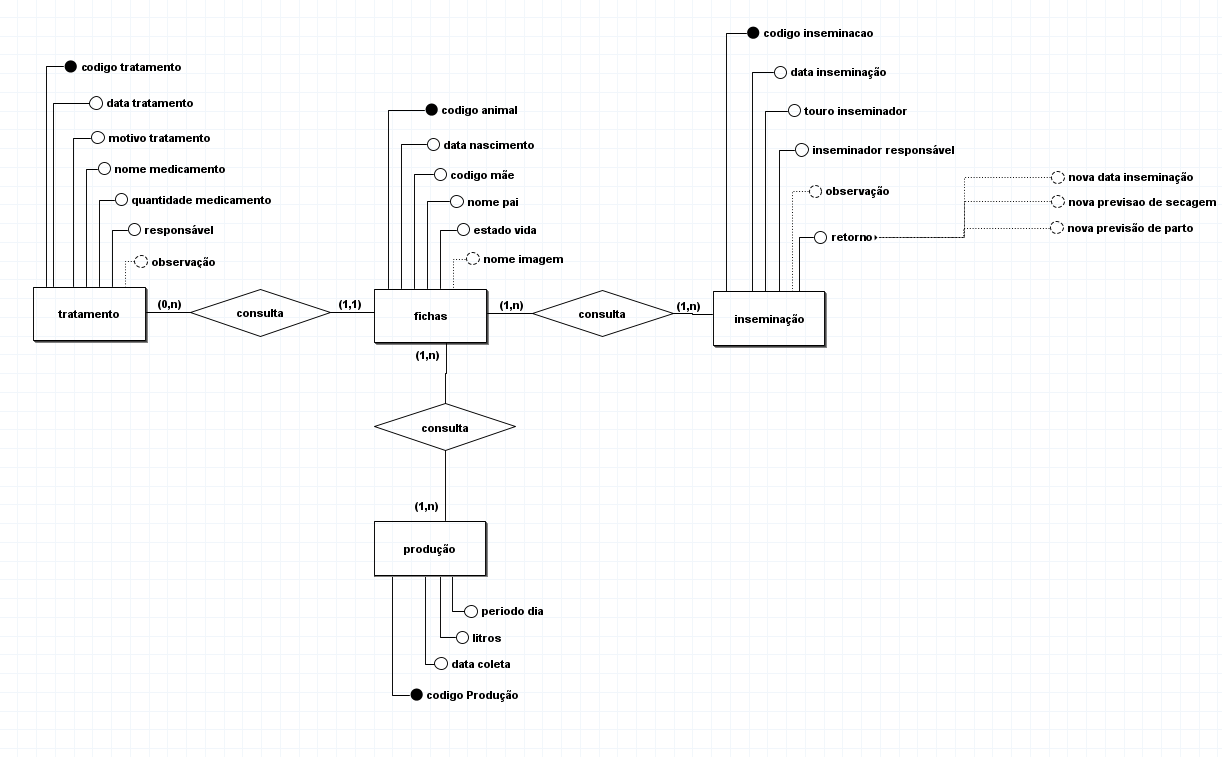
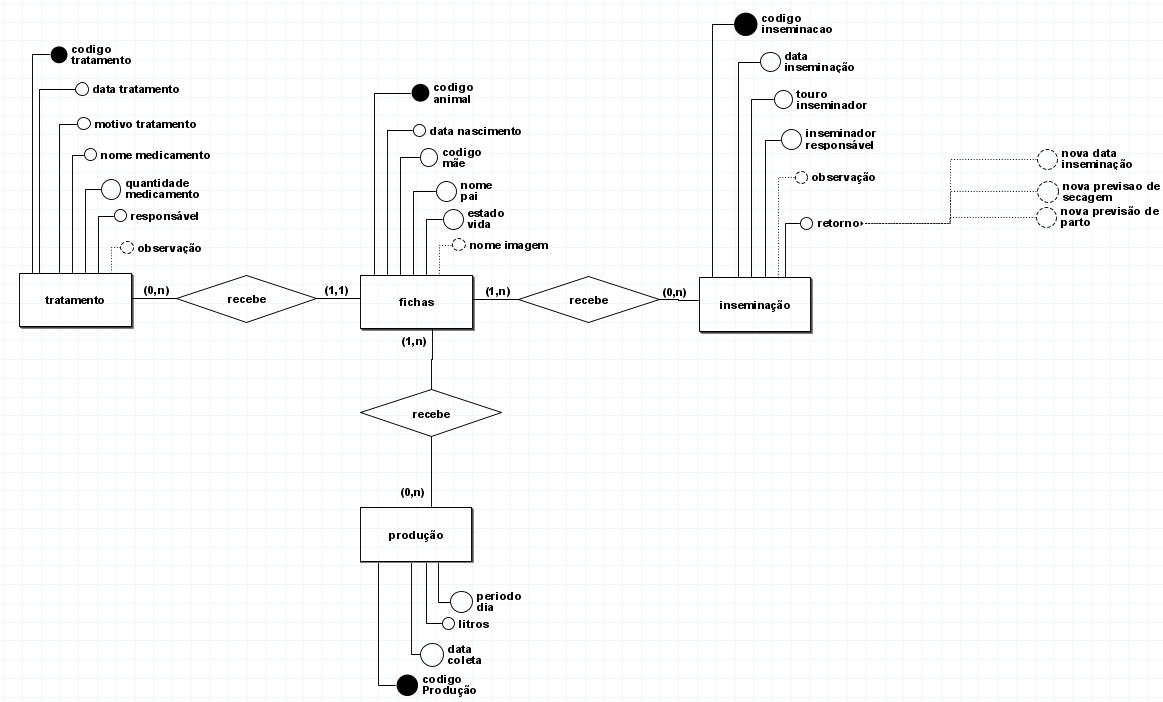
ajustes nos relatorios e modelo conceitual

diff --git a/js/relatorio.js b/js/relatorio.js
@@ -1,14 +1,15 @@
 function fazerRelatorio(){
     var filtromes = document.getElementById("id_mes").value
+    var filtroano = document.getElementById("id_ano").value
     var filtrotipo = document.getElementById("id_tipo").value
     
     if(filtrotipo == "prod"){
-        return window.location.href='../controller/relatorioController.php?acao=prod&filtroMes=' + filtromes;
+        return window.location.href='../controller/relatorioController.php?acao=prod&filtroMes=' + filtromes +'&filtroAno='+filtroano;
     }if(filtrotipo == "ins"){
-        return window.location.href='../controller/relatorioController.php?acao=ins&filtroMes=' + filtromes;
+        return window.location.href='../controller/relatorioController.php?acao=ins&filtroMes='+ filtromes +'&filtroAno='+filtroano;
     }if(filtrotipo == "prevSec"){
-        return window.location.href='../controller/relatorioController.php?acao=prevSec&filtroMes=' + filtromes;
+        return window.location.href='../controller/relatorioController.php?acao=prevSec&filtroMes=' + filtromes +'&filtroAno='+filtroano;
     }if(filtrotipo == "prevPa"){
-        return window.location.href='../controller/relatorioController.php?acao=prevPa&filtroMes=' + filtromes;
+        return window.location.href='../controller/relatorioController.php?acao=prevPa&filtroMes=' + filtromes +'&filtroAno='+filtroano;
     }
 }

diff --git a/controller/classes/inseminacaoDAO.php b/controller/classes/inseminacaoDAO.php
@@ -59,6 +59,33 @@
             catch(PDOException $e){
                 echo "Erro no acesso aos dados: ". $e->getMessage();
             }
+        }
+
+        public function buscaAno($ano){
+            try{
+                $query = $this->conexao->prepare("select * FROM inseminacao WHERE YEAR(dtInseminacao) = :a");//data
+                $query->bindParam(":a", $ano, PDO::PARAM_INT);
+                $query->execute();
+                $registros = $query->fetchAll(PDO::FETCH_CLASS, "inseminacao");
+                return $registros;
+            }
+            catch(PDOException $e){
+                echo "Erro no acesso aos dados: ". $e->getMessage();
+            }
+        }
+
+        public function buscaMesAno($mes, $ano){
+            try{
+                $query = $this->conexao->prepare("select * FROM inseminacao WHERE MONTH(dtInseminacao) = :m and YEAR(dtInseminacao) = :a");//data
+                $query->bindParam(":m", $mes, PDO::PARAM_INT);
+                $query->bindParam(":a", $ano, PDO::PARAM_INT);
+                $query->execute();
+                $registros = $query->fetchAll(PDO::FETCH_CLASS, "inseminacao");
+                return $registros;
+            }
+            catch(PDOException $e){
+                echo "Erro no acesso aos dados: ". $e->getMessage();
+            }
         } 
 
         public function inserir(inseminacao $inseminacao){

diff --git a/views/relatorios.php b/views/relatorios.php
@@ -23,7 +23,19 @@
             <option value="prevSec" value="<?=$tipo?>" <?=($_GET['acao']  == 'prevSec')?'selected':''?>>Previsão de secagem</option>
             <option value="prevPa" value="<?=$tipo?>" <?=($_GET['acao']  == 'prevPa')?'selected':''?>>Previsão de parto</option>
         </select>
-    </div>    
+    </div>
+
+    <div  class="div-filtros-relatorio-mes">
+        <label class="" for="id_ano">Ano do relatório</label>
+        <select  class="select-relatorio" id="id_ano"  name="filtroAno" onchange="fazerRelatorio()" required >
+            <option value="2018" value="<?=$ano?>" <?=($_GET['filtroAno']  == '2018')?'selected':''?>>2018</option>
+            <option value="2019" value="<?=$ano?>" <?=($_GET['filtroAno']  == '2019')?'selected':''?>>2019</option>
+            <option value="2020" value="<?=$ano?>" <?=($_GET['filtroAno']  == '2020')?'selected':''?>>2020</option>
+            <option value="2021" value="<?=$ano?>" <?=($_GET['filtroAno']  == '2021')?'selected':''?>>2021</option>
+            <option value="2022" value="<?=$ano?>" <?=($_GET['filtroAno']  == '2022')?'selected':''?>>2022</option>
+            <option value="2023" value="<?=$ano?>" <?=($_GET['filtroAno']  == '2023')?'selected':''?>>2023</option>
+        </select>
+    </div>
 
     <div  class="div-filtros-relatorio-mes">
         <label class="" for="id_mes">Mês do relatório</label>

diff --git a/controller/views/cadastraInseminacao.php b/controller/views/cadastraInseminacao.php
@@ -7,7 +7,7 @@
       foreach($erros as $e)
         echo "<li>$e</li>";
     }
-    $codAnimal = isset($_POST['field_codAnimal']) ? $_POST['field_codAnimal'] : "";
+    $codAnimal = isset($_POST['field_codAnimal']) ? $_POST['field_codAnimal'] : $_GET['codAnimal'];
     $dtInseminacao = isset($_POST['field_dtInseminacao']) ? $_POST['field_dtInseminacao'] : "";
     $touroInseminador = isset($_POST['field_touroInseminador']) ? $_POST['field_touroInseminador'] : "";
     $inseminadorResponsavel = isset($_POST['field_inseminadorResponsavel']) ? $_POST['field_inseminadorResponsavel'] : "";

diff --git a/controller/views/cadastraAnimal.php b/controller/views/cadastraAnimal.php
@@ -7,7 +7,7 @@
         echo "<li>$e</li>";
     }
     $codAnimal = isset($_POST['field_codAnimal']) ? $_POST['field_codAnimal'] : "";
-    $dtNascimento = isset($_POST['field_dtNascimento']) ? $_POST['field_dtNascimento'] : "";
+    $dtNascimento = isset($_POST['field_dtNascimento']) ? $_POST['field_dtNascimento'] : date("Y-m-d");
     $codMae = isset($_POST['field_codMae']) ? $_POST['field_codMae'] : "";
     $nomePai = isset($_POST['field_nomePai']) ? $_POST['field_nomePai'] : "";
     $estadoVida = isset($_POST['field_estadoVida']) ? $_POST['field_estadoVida'] : "";

diff --git a/controller/views/relatorioInseminacao.php b/controller/views/relatorioInseminacao.php
@@ -6,7 +6,9 @@
   </tr>
 <?php
 $obj = new inseminacaoDAO();
-$lista = $obj->buscaMes($_GET['filtroMes']);
+$mes = ($_GET['filtroMes']);
+$ano=($_GET['filtroAno']);
+$lista = $obj->buscaMesAno($mes, $ano);
 if(count($lista) == 0){
     //echo "Nenhum relatório encontrado.";
 }else{
